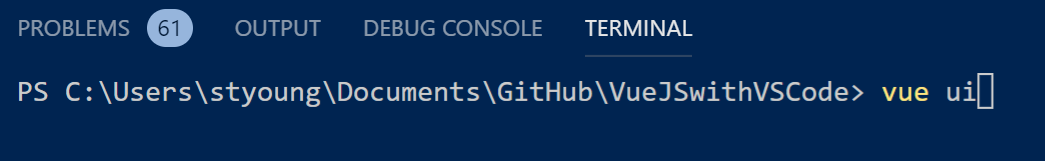
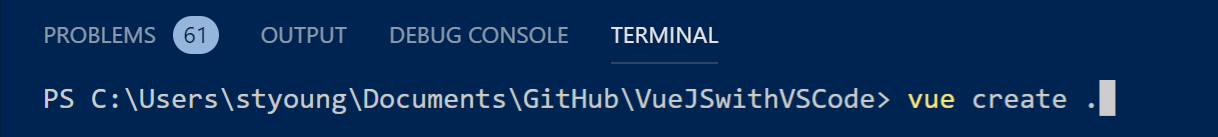
Updated

diff --git a/VueJSWithVSCode_LearningPlan_Tutorial.md b/VueJSWithVSCode_LearningPlan_Tutorial.md
@@ -93,12 +93,18 @@ Run the command.
 
 
 
-[Creating a Project](https://cli.vuejs.org/guide/creating-a-project.html#vue-create) - This regerence walks you through initializing your created project folder with the CLI UI code.  You can also create the directory from scratch using <code>vue create ProjectName</code> if you have not started with a project in GitHub as our walkthorugh has shown here.
+[Creating a Project](https://cli.vuejs.org/guide/creating-a-project.html#vue-create) - This regerence walks you through initializing your created project folder with the CLI UI code.  You can also create the directory from scratch using <code>vue create projectname</code> if you have not started with a project in GitHub as our walkthorugh. This command will create a directory with that ProjectName.  Note that in the currently verison of Vue, your project name cannot have any capital letters.
 
-Now to setup the VueJS Project in this directory, type the command <br> <code>vue ui</code> in a terminal window.
+Now to setup the VueJS Project in the directory we created from GitHub, type the command <br> <code>vue create .</code> in a terminal window.  Note the "." at the end. If you do not have that, it will create subfolder, so this command will create the files in the directory we currenlty have.
+
 ![Create UI Code base](https://github.com/steveyoungca/VueJSwithVSCode/blob/master/media/screengrabs/vue_ui_Command.png?raw=true)
 
+![Select Lint](https://github.com/steveyoungca/VueJSwithVSCode/blob/master/media/screengrabs/CLIStep1Lint.png?raw=true)
 
+![Create UI Code base](https://github.com/steveyoungca/VueJSwithVSCode/blob/master/media/screengrabs/CLIStep1Process.png?raw=true)
+
+![Create UI Code base](https://github.com/steveyoungca/VueJSwithVSCode/blob/master/media/screengrabs/CLIStep1Complete.png?raw=true)
+ 
 The directory before you run th ecommand, will look like this.
 ![Directory Structure Before](https://github.com/steveyoungca/VueJSwithVSCode/blob/master/media/screengrabs/DirectoryBefore.png?raw=true)
 
@@ -107,8 +113,7 @@ The directory before you run th ecommand, will look like this.
 
 
 
-===========================================================================================
-
+=========================================================================================== 
 
 
 
